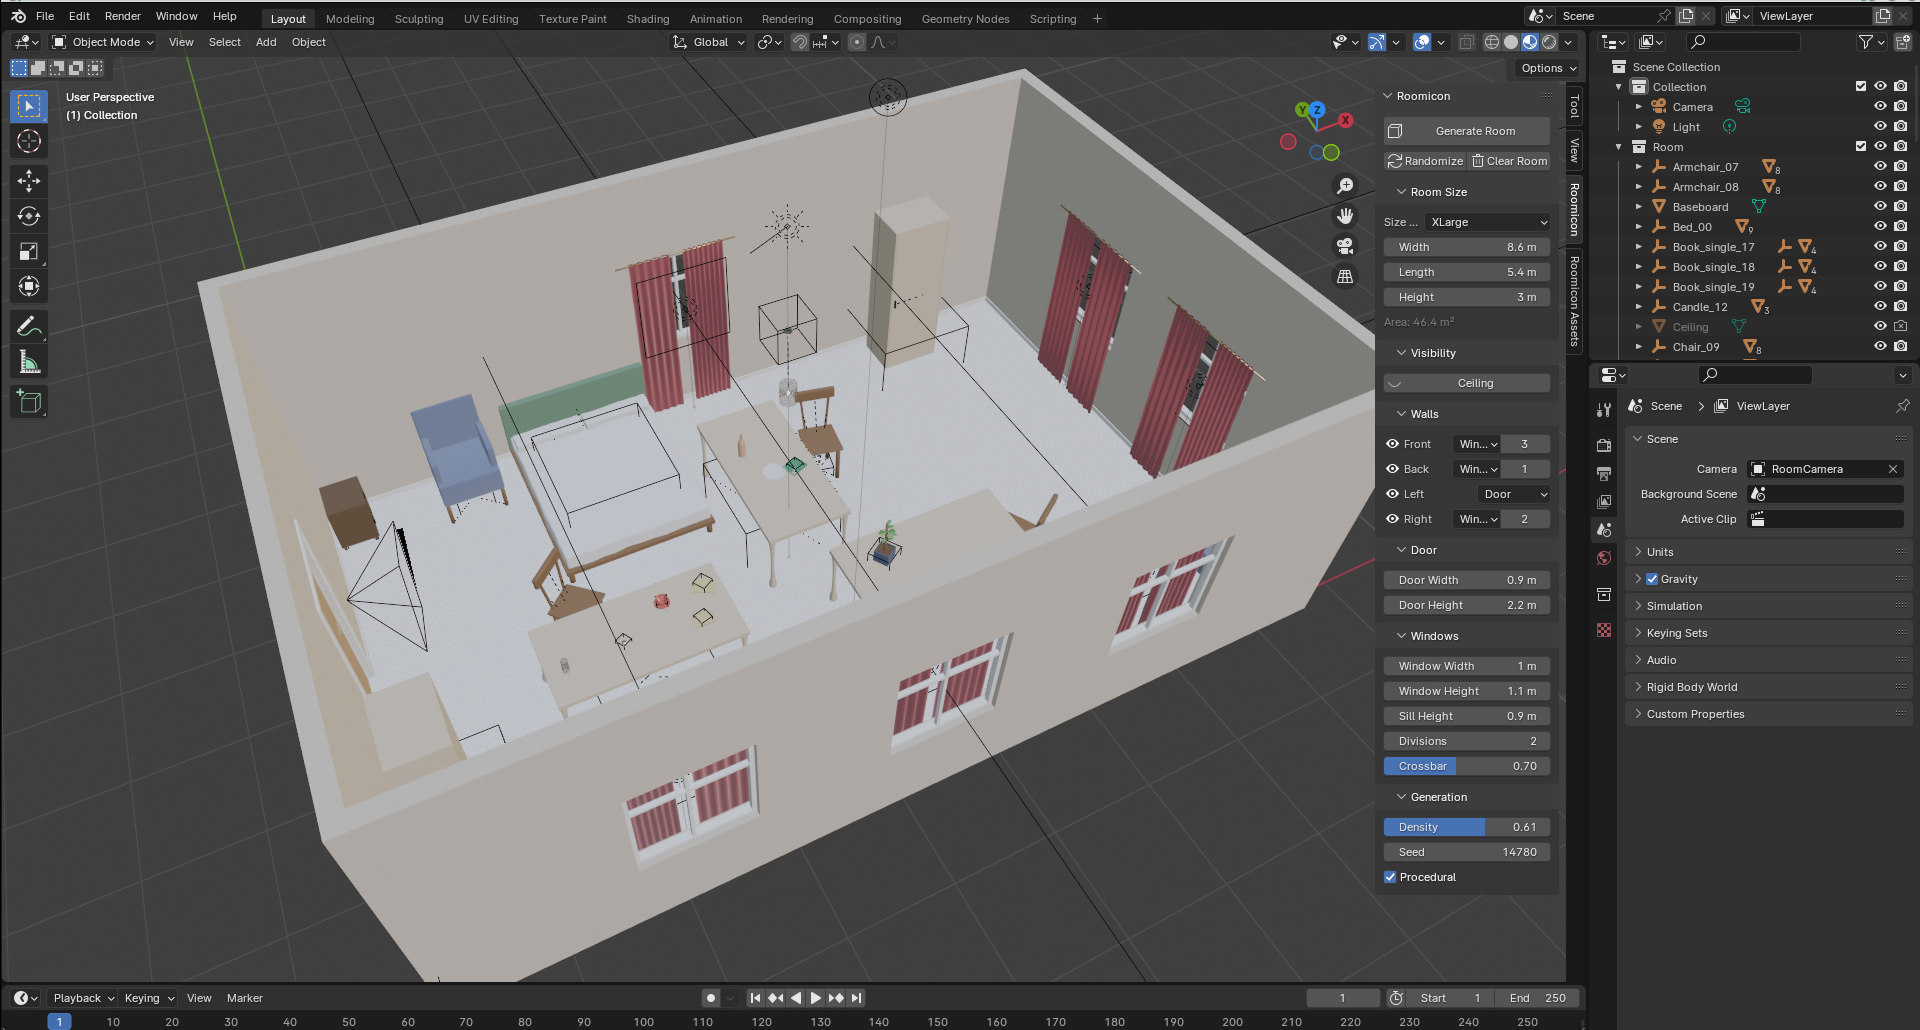
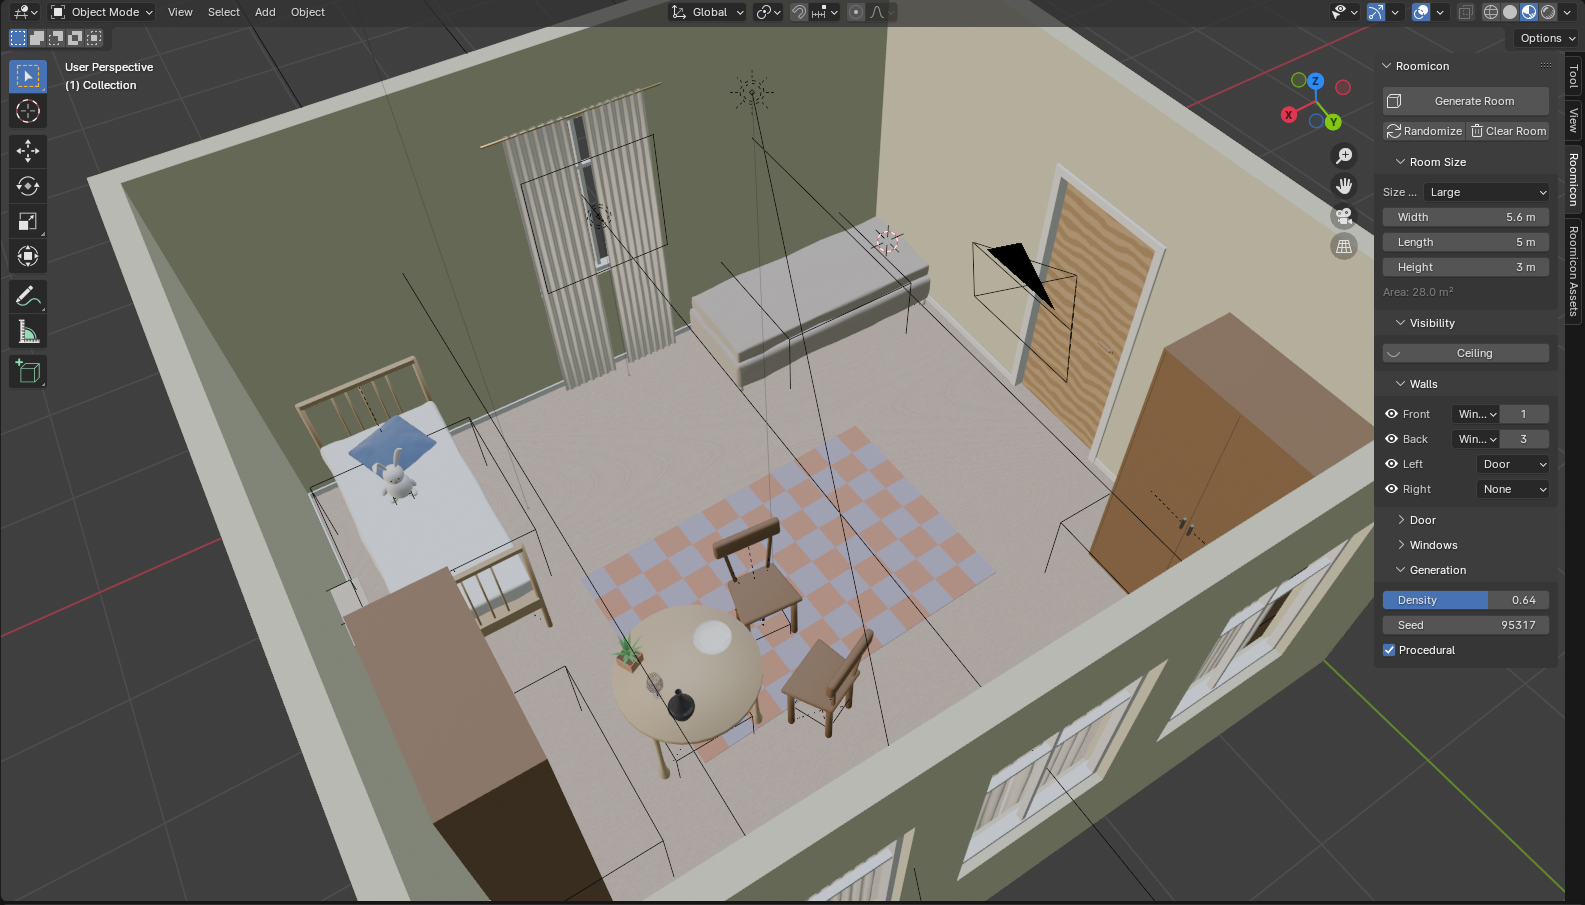
Update images and README*

diff --git a/README_RU.md b/README_RU.md
@@ -23,6 +23,7 @@
 - Режим **Procedural** — генерация мебели и декора на лету (без предварительных .blend)
 - Стулья автоматически расставляются вокруг столов
 - Автоматические шторы на окнах, ковры, подушки и игрушки на кроватях, книги на полках
+- Картины, фоторамки и ковры используют процедурные паттерны по умолчанию; по желанию можно подложить свои изображения в `assets/pool/pictures/`, `assets/pool/photoframes/` или `assets/pool/rugs/`
 - Лимиты и вероятности для каждого типа декора по размеру комнаты
 - Автоматическая расстановка с учётом границ комнаты, коллизий и логики размещения
 - Процедурные материалы комнаты (паркет/плитка/ламинат, штукатурка/краска/обои)

diff --git a/README.md b/README.md
@@ -25,6 +25,7 @@ Generate complete room interiors in one click — use as a starting point for ar
 - **Procedural** mode — generates furniture and decor on-the-fly (no pre-built .blend files needed)
 - Chairs automatically placed around tables
 - Curtains on windows, rugs on floor, cushions & plush toys on beds, books on shelves — all automatic
+- Paintings, photo frames, and rugs use procedural patterns by default; optionally drop your own images into `assets/pool/pictures/`, `assets/pool/photoframes/`, or `assets/pool/rugs/`
 - Per-type limits and spawn probabilities based on room size
 - Collision-aware placement respecting room boundaries and existing objects
 - Procedural room materials (parquet/tile/laminate, plaster/paint/wallpaper)
